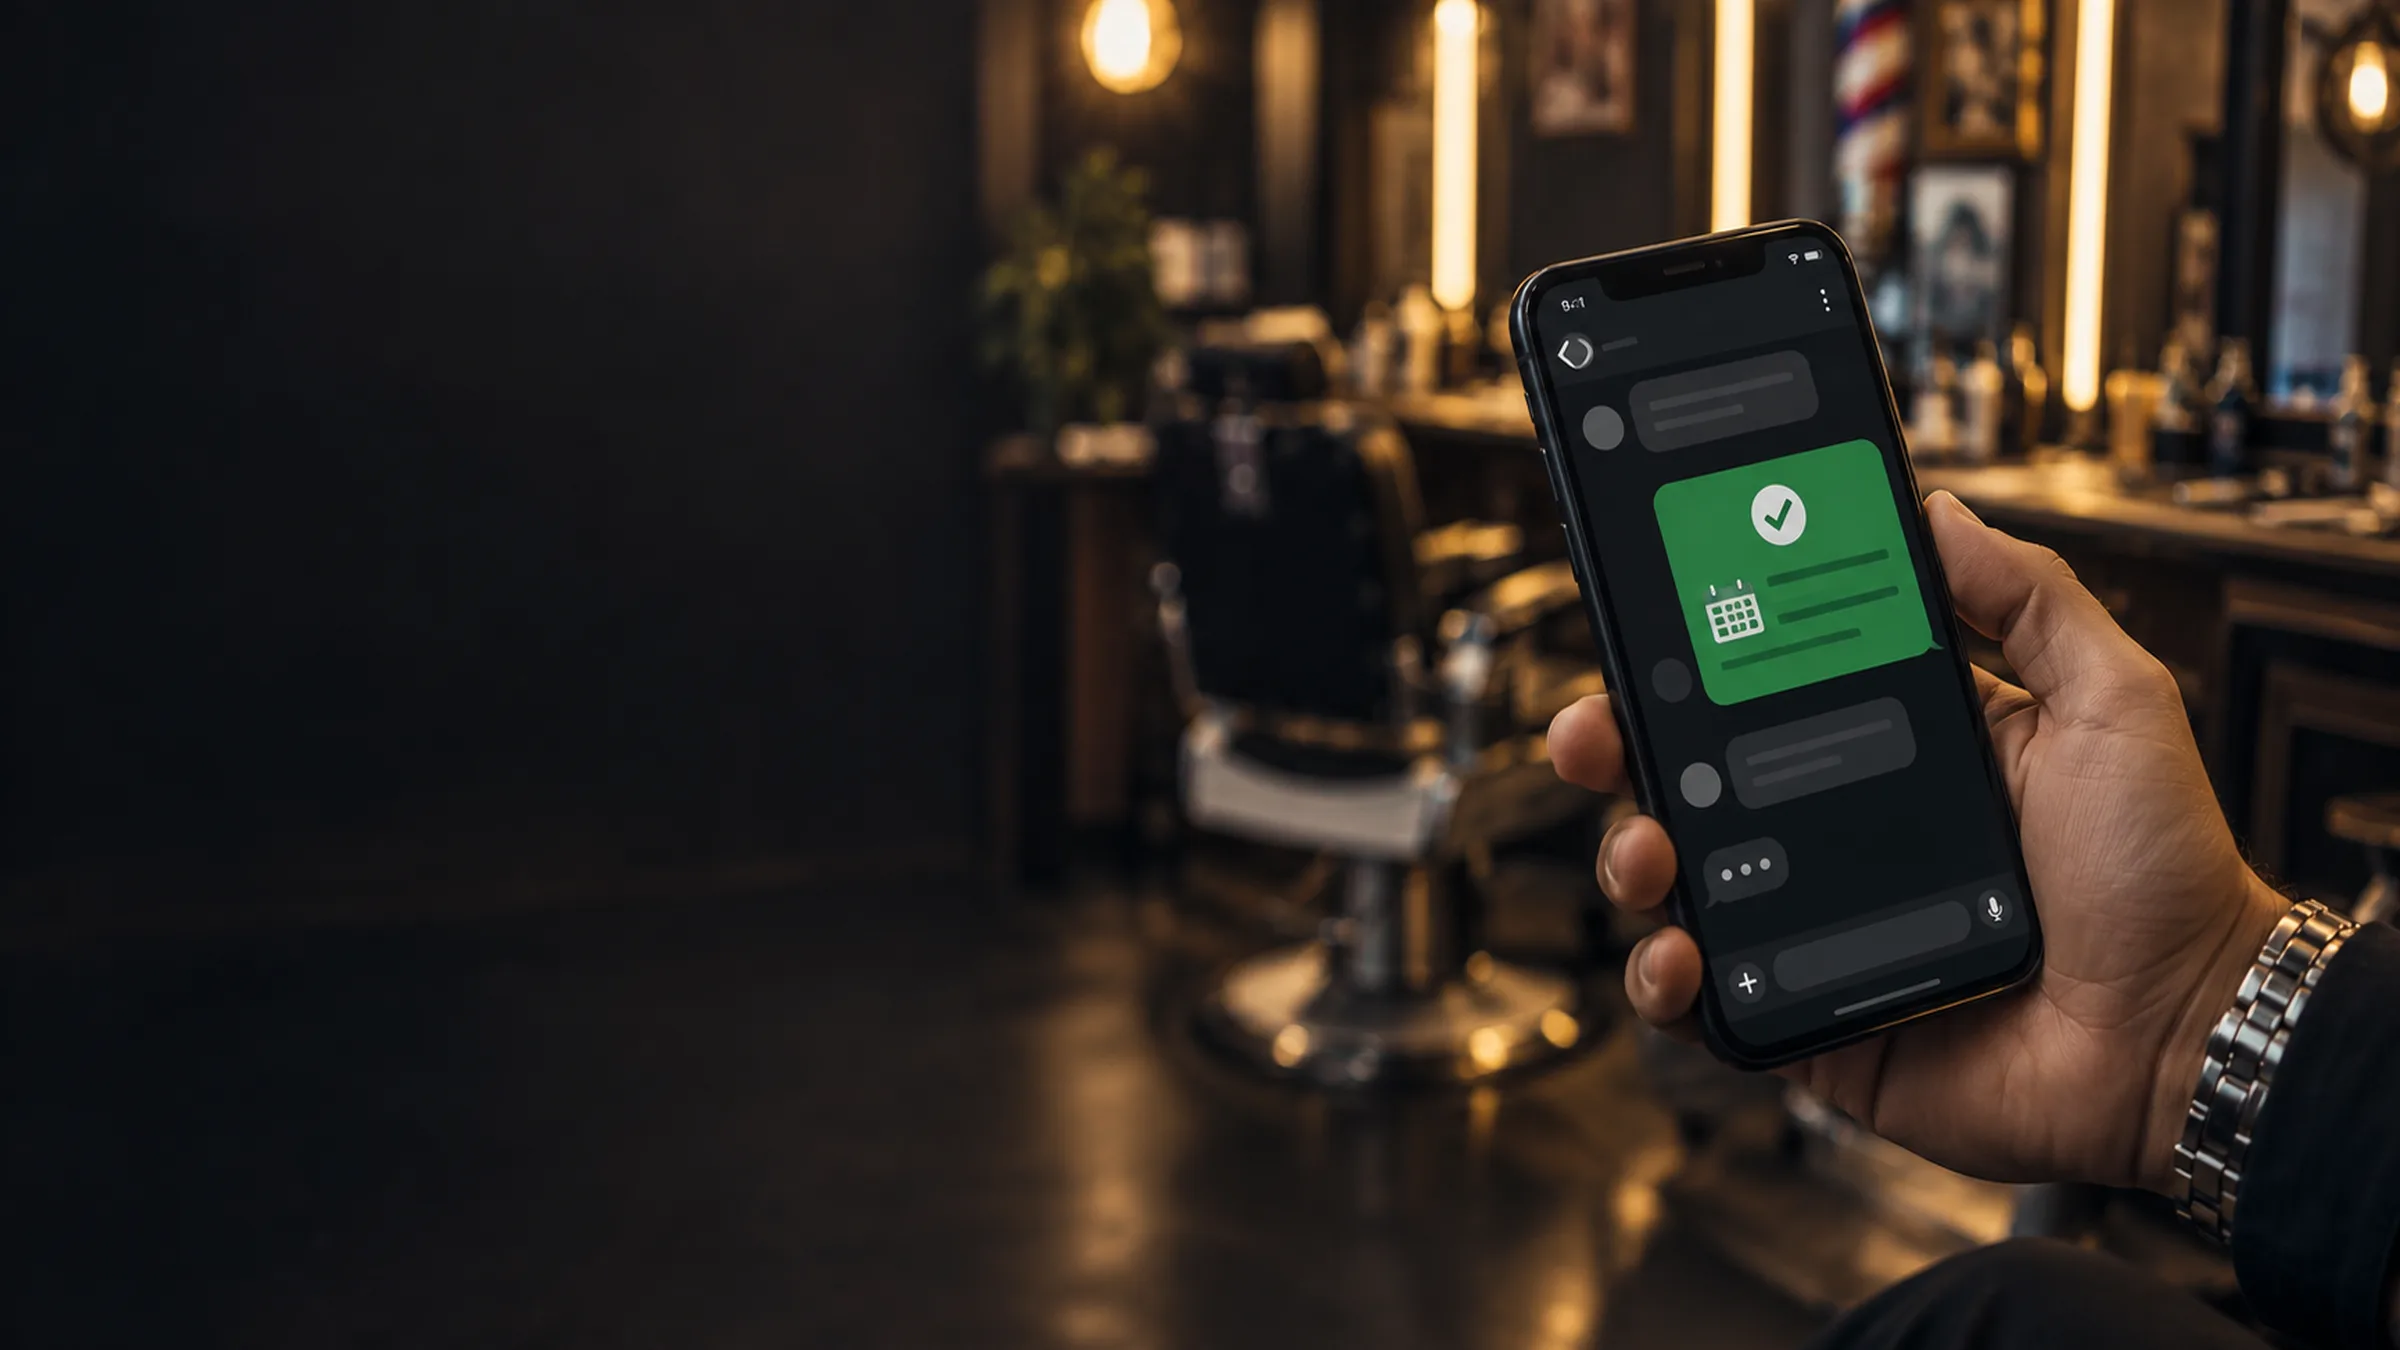
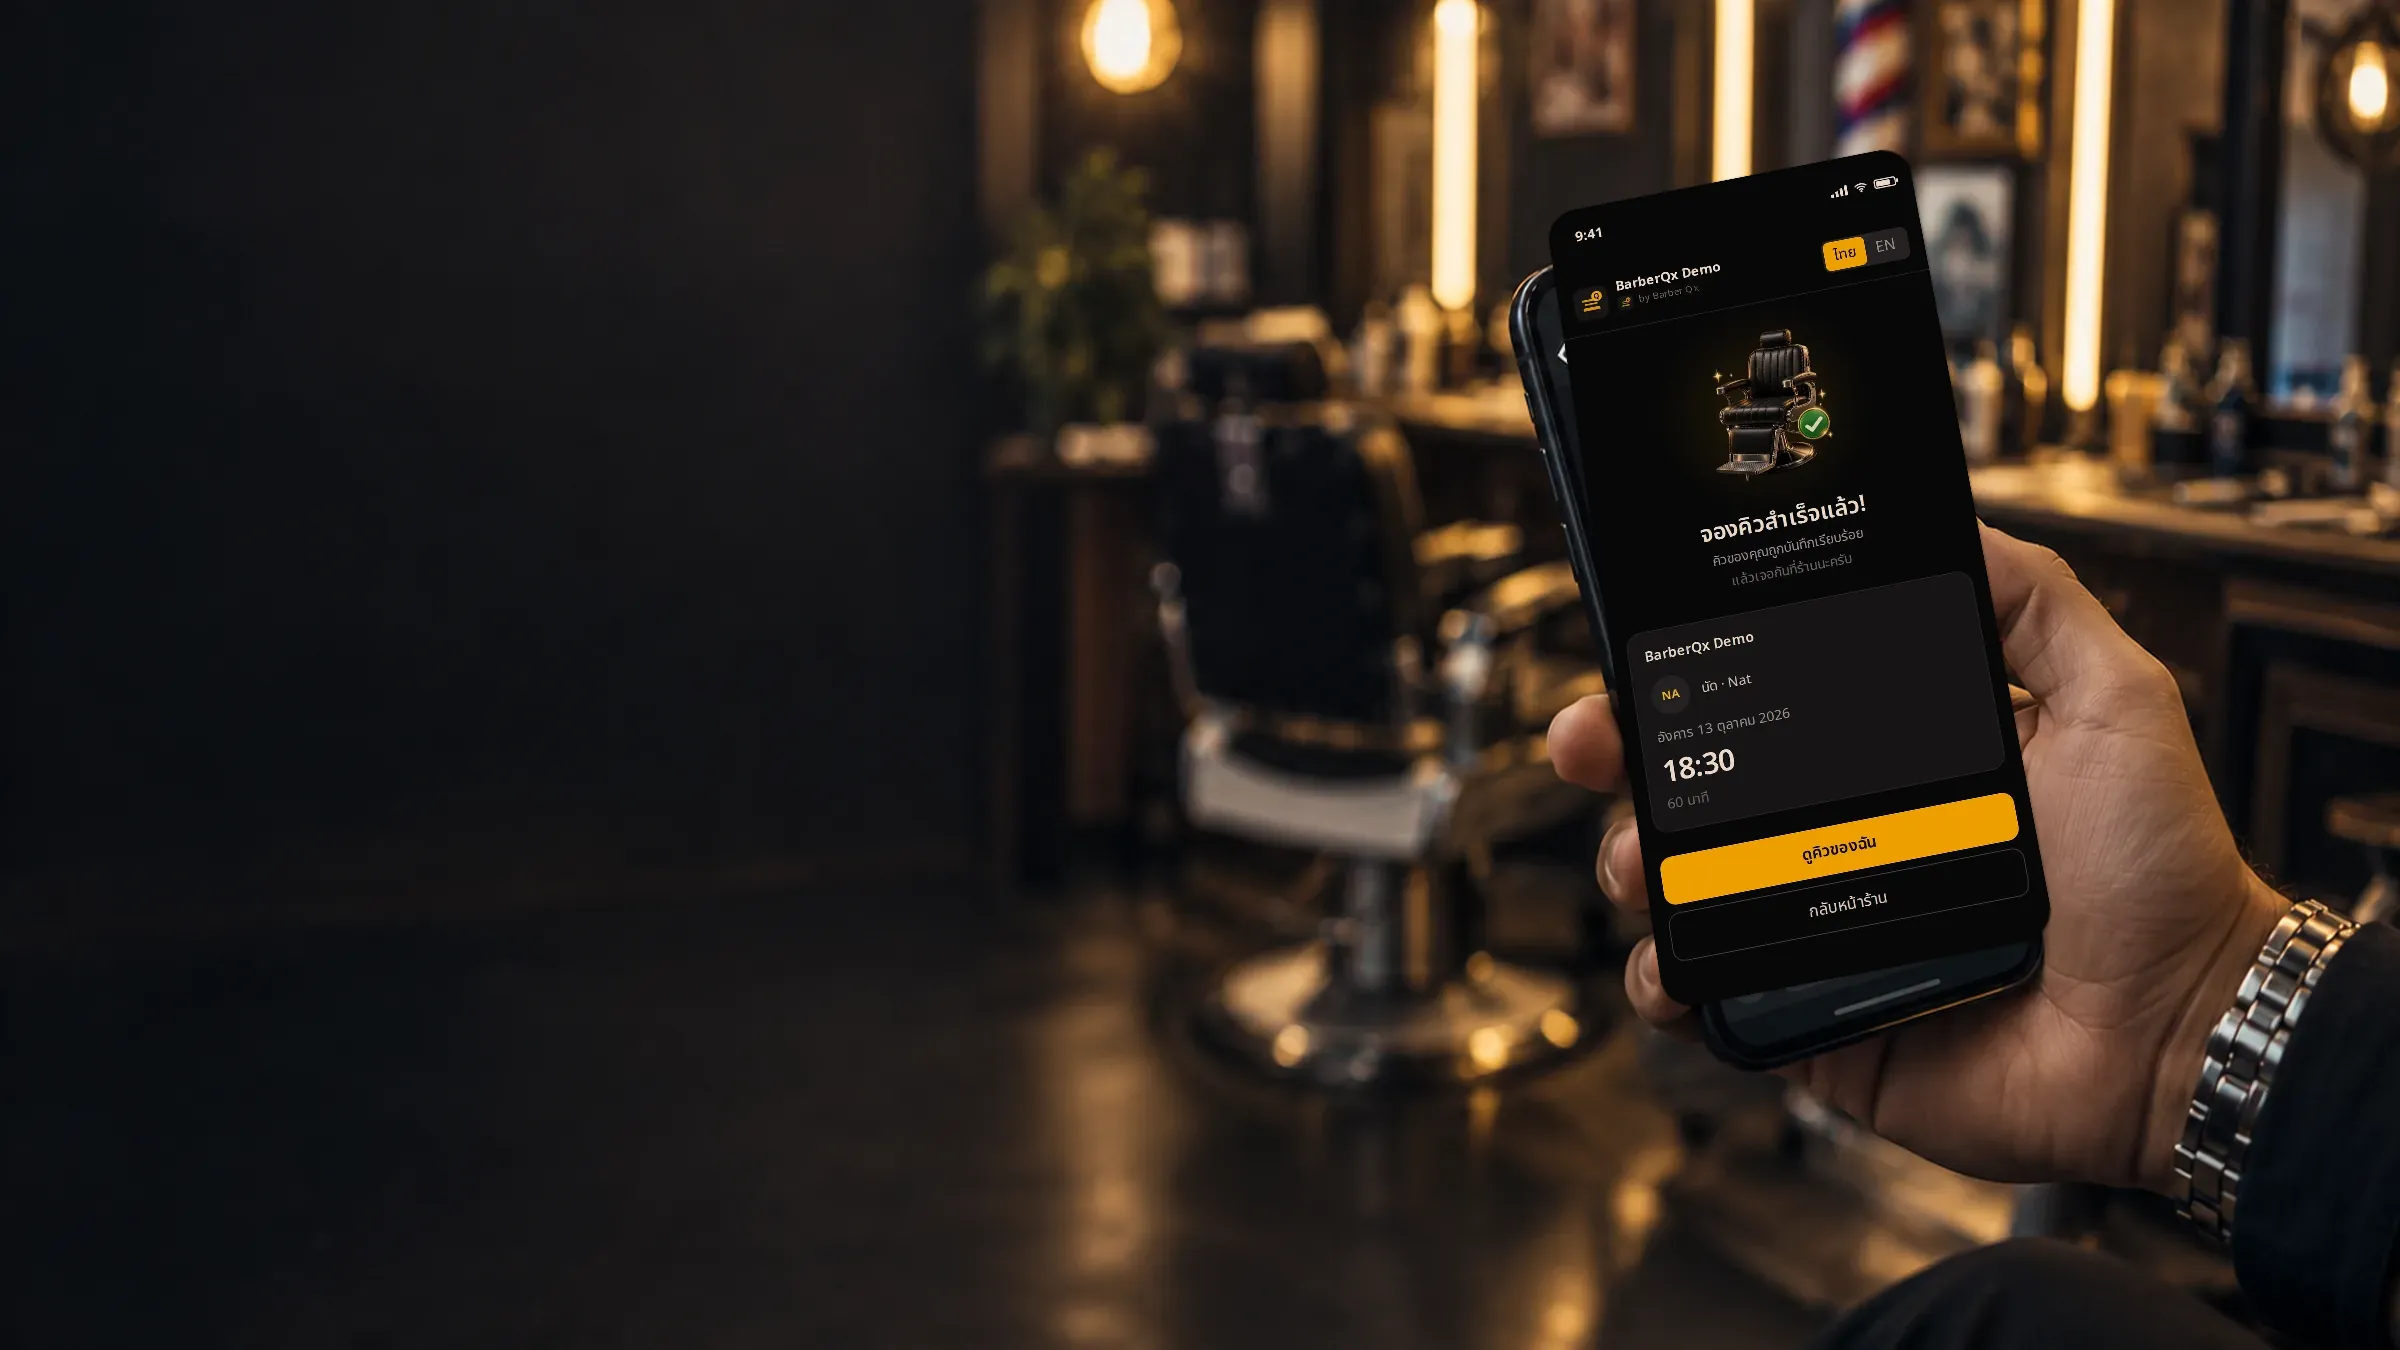
Composite booking-confirmed UI into hero phone screens
Replace the green chat placeholder on hero-desktop/mobile with the
real Thai queue-ticket (booking success) screenshot via perspective
warp. Keep AI source plates for rebuilds.

Changed region(s): [[0.625, 0.0933, 0.875, 0.7467]]

diff --git a/src/lib/marketing/layout.test.ts b/src/lib/marketing/layout.test.ts
@@ -122,6 +122,10 @@ describe("marketing layout split", () => {
       existsSync(resolve(root, "../public/marketing/photos/hero-desktop.webp")),
       "hero-desktop.webp missing",
     );
+    assert.ok(
+      existsSync(resolve(root, "../public/marketing/photos/hero-desktop.ai-source.webp")),
+      "hero-desktop.ai-source.webp missing (rebuild plate)",
+    );
     assert.equal(
       marketingPhotoSlots.heroMobile.src,
       "/marketing/photos/hero-mobile.webp",
@@ -129,6 +133,18 @@ describe("marketing layout split", () => {
     assert.ok(
       existsSync(resolve(root, "../public/marketing/photos/hero-mobile.webp")),
       "hero-mobile.webp missing",
+    );
+    assert.ok(
+      existsSync(resolve(root, "../public/marketing/photos/hero-mobile.ai-source.webp")),
+      "hero-mobile.ai-source.webp missing (rebuild plate)",
+    );
+    assert.match(
+      marketingPhotoSlots.heroDesktop.artNote,
+      /queue-ticket\.webp|booking-confirmed/,
+    );
+    assert.ok(
+      existsSync(resolve(root, "../scripts/composite-hero-phone-screens.py")),
+      "hero phone composite script missing",
     );
     assert.equal(
       marketingPhotoSlots.barberDesktop.src,

diff --git a/src/lib/marketing/photo-slots.ts b/src/lib/marketing/photo-slots.ts
@@ -40,7 +40,7 @@ export const marketingPhotoSlots: Record<MarketingPhotoSlotId, MarketingPhotoSlo
     width: 2400,
     height: 1350,
     label: "PHOTO SLOT · hero desktop 16:9",
-    artNote: "2400×1350 · subject on right · leave left clear for copy",
+      artNote: "2400×1350 · subject on right · phone screen = booking-confirmed (queue-ticket.webp)",
   },
   heroMobile: {
     id: "heroMobile",
@@ -49,7 +49,7 @@ export const marketingPhotoSlots: Record<MarketingPhotoSlotId, MarketingPhotoSlo
     width: 1080,
     height: 1350,
     label: "PHOTO SLOT · hero mobile 4:5",
-    artNote: "1080×1350 · dark top for headline overlay",
+      artNote: "1080×1350 · dark top for headline · phone screen = booking-confirmed (queue-ticket.webp)",
   },
   barberDesktop: {
     id: "barberDesktop",

diff --git a/scripts/composite-hero-phone-screens.py b/scripts/composite-hero-phone-screens.py
@@ -1,0 +1,125 @@
+#!/usr/bin/env python3
+"""
+Composite a real BarberQx mobile screenshot into the hero photo phone screens.
+
+Source screen: public/marketing/screens/queue-ticket.webp
+  (customer booking-confirmed — Thai, demo shop / dummy name)
+
+Usage:
+  python3 scripts/composite-hero-phone-screens.py
+
+Reads *.ai-source.webp plates when present (original AI mockups), otherwise
+the current hero webps. Writes public/marketing/photos/hero-{desktop,mobile}.webp.
+"""
+from __future__ import annotations
+
+from pathlib import Path
+
+import cv2
+import numpy as np
+from PIL import Image
+
+ROOT = Path(__file__).resolve().parents[1]
+PHOTOS = ROOT / "public/marketing/photos"
+SCREEN = ROOT / "public/marketing/screens/queue-ticket.webp"
+
+# Phone screen quads (TL, TR, BR, BL) in full-image pixel coords.
+# Tuned to the AI barbershop hero plates (green chat placeholder → real UI).
+DESKTOP_QUAD = np.array(
+    [
+        [1545, 215],
+        [1905, 145],
+        [2055, 935],
+        [1665, 1010],
+    ],
+    dtype=np.float32,
+)
+
+MOBILE_QUAD = np.array(
+    [
+        [365, 495],
+        [735, 485],
+        [755, 1135],
+        [385, 1145],
+    ],
+    dtype=np.float32,
+)
+
+
+def rounded_rect_mask(h: int, w: int, radius_frac: float = 0.08) -> np.ndarray:
+    mask = np.zeros((h, w), dtype=np.uint8)
+    r = int(min(h, w) * radius_frac)
+    cv2.rectangle(mask, (r, 0), (w - r - 1, h - 1), 255, -1)
+    cv2.rectangle(mask, (0, r), (w - 1, h - r - 1), 255, -1)
+    cv2.circle(mask, (r, r), r, 255, -1)
+    cv2.circle(mask, (w - r - 1, r), r, 255, -1)
+    cv2.circle(mask, (r, h - r - 1), r, 255, -1)
+    cv2.circle(mask, (w - r - 1, h - r - 1), r, 255, -1)
+    return mask
+
+
+def composite(hero_path: Path, quad: np.ndarray, out_path: Path) -> None:
+    hero = cv2.imread(str(hero_path))
+    if hero is None:
+        raise SystemExit(f"missing hero plate: {hero_path}")
+    screen = cv2.imread(str(SCREEN))
+    if screen is None:
+        raise SystemExit(f"missing screenshot: {SCREEN}")
+
+    sh, sw = screen.shape[:2]
+    src = np.array([[0, 0], [sw - 1, 0], [sw - 1, sh - 1], [0, sh - 1]], dtype=np.float32)
+    matrix = cv2.getPerspectiveTransform(src, quad)
+    warped = cv2.warpPerspective(
+        screen,
+        matrix,
+        (hero.shape[1], hero.shape[0]),
+        flags=cv2.INTER_LANCZOS4,
+    )
+
+    mask = rounded_rect_mask(sh, sw, 0.08)
+    mask = cv2.GaussianBlur(mask, (0, 0), 1.5)
+    warped_mask = cv2.warpPerspective(
+        mask,
+        matrix,
+        (hero.shape[1], hero.shape[0]),
+        flags=cv2.INTER_LINEAR,
+    )
+
+    # Slight warm dim so the UI sits in the barbershop lighting.
+    warm = warped.astype(np.float32)
+    warm[:, :, 0] *= 0.90  # B
+    warm[:, :, 1] *= 0.96  # G
+    warm[:, :, 2] *= 1.04  # R
+    warm *= 0.90
+    warm = np.clip(warm, 0, 255).astype(np.uint8)
+
+    alpha = (warped_mask.astype(np.float32) / 255.0)[..., None]
+    out = hero.astype(np.float32) * (1.0 - alpha) + warm.astype(np.float32) * alpha
+    out = np.clip(out, 0, 255).astype(np.uint8)
+
+    edge = cv2.Canny(warped_mask, 40, 120)
+    edge = cv2.dilate(edge, np.ones((2, 2), np.uint8), iterations=1)
+    edge = cv2.GaussianBlur(edge, (3, 3), 0)
+    e = (edge.astype(np.float32) / 255.0)[..., None] * 0.22
+    out = (out.astype(np.float32) * (1.0 - e)).clip(0, 255).astype(np.uint8)
+
+    rgb = cv2.cvtColor(out, cv2.COLOR_BGR2RGB)
+    Image.fromarray(rgb).save(out_path, "WEBP", quality=80, method=6)
+    print(f"wrote {out_path.relative_to(ROOT)} ({out_path.stat().st_size} bytes)")
+
+
+def plate_for(stem: str) -> Path:
+    source = PHOTOS / f"{stem}.ai-source.webp"
+    current = PHOTOS / f"{stem}.webp"
+    return source if source.exists() else current
+
+
+def main() -> None:
+    if not SCREEN.exists():
+        raise SystemExit(f"missing {SCREEN}")
+    composite(plate_for("hero-desktop"), DESKTOP_QUAD, PHOTOS / "hero-desktop.webp")
+    composite(plate_for("hero-mobile"), MOBILE_QUAD, PHOTOS / "hero-mobile.webp")
+
+
+if __name__ == "__main__":
+    main()
